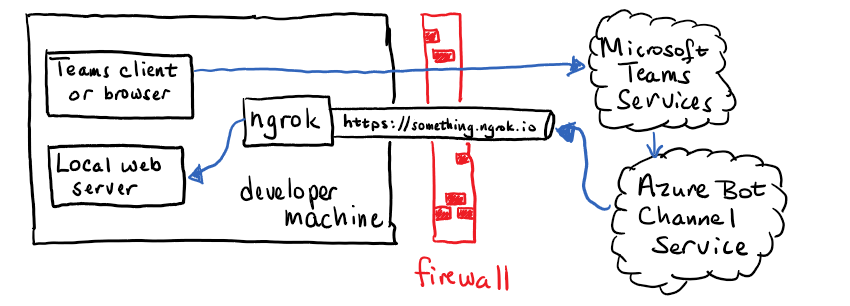
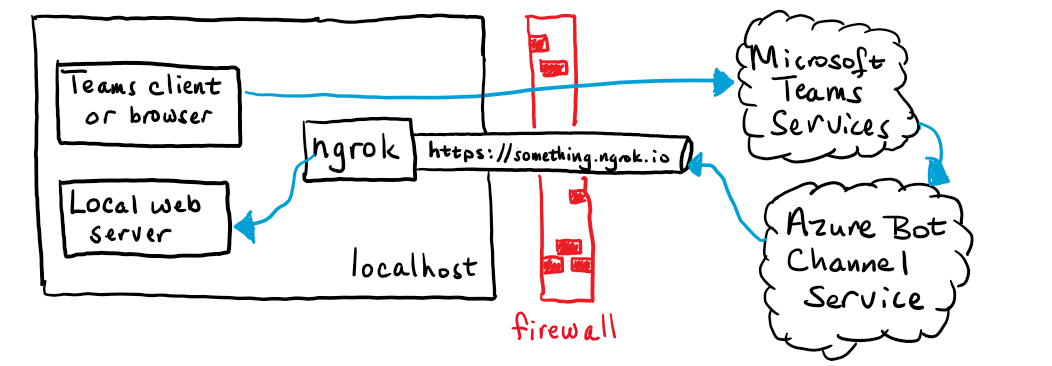
1st draft ngrok article

Changed region(s): [[0.0306, 0.0294, 0.9482, 1.0], [0.0306, 0.0294, 0.4588, 0.1471], [0.9176, 0.7059, 0.9482, 0.7647]]

diff --git a/Do you really need ngrok/article.md b/Do you really need ngrok/article.md
@@ -31,35 +31,103 @@ Here are the features of ngrok that make it the darling of so many developers:
 
 So while ngrok is clearly very useful, there are alternative approaches to handle each of these cases. The sections that follow will provide details.
 
-> An alternative tunnelling ngrok is not the solution.
-> Many people have suggested other tunneling applications such as [Azure Relay](https://blog.botframework.com/2019/04/16/debugging-your-locally-hosted-v4-bot-using-azure-relays/) or [localtunnel](https://localtunnel.github.io/www/). While they may be helpful in some ways, they all open a tunnel from the public Internet to your development computer, and thus the same security concerns usually arise. This article will only consider alternative approaches that do not expose any ports on the local computer to the public Internet.
+> Many people have suggested other tunneling applications such as [Azure Relay](https://blog.botframework.com/2019/04/16/debugging-your-locally-hosted-v4-bot-using-azure-relays/) or [localtunnel](https://localtunnel.github.io/www/). While they may be helpful in some ways, they all open a tunnel from the public Internet to your development computer, and thus the same security concerns usually arise. This article will only consider approaches that do not expose any ports on the local computer to the public Internet.
 
-## Building Teams tabs and task modules
+## Debugging Teams tabs and task modules
 
-Both tabs and task modules (modal dialogs) in Teams are web pages that appear in IFrames in the Teams user interface. Teams requires https on the URL of these web pages. It's notable that the Teams client accesses these web pages directly, so as long as your Teams client or web browser can access the page with https, it will show up in Microsoft Teams.
+Both tabs and task modules (modal dialogs) in Teams are web pages that appear in the Teams user interface. Teams requires https on the URL of these web pages. It's notable that the Teams client accesses these web pages directly, so as long as your Teams client or web browser can access the page with https, it will show up in Microsoft Teams.
 
 This picture shows how ngrok works in the case of a tab or task module. The Teams client (or web browser) opens the web page via the ngrok tunnel, which sends the connection right back to the local computer.
 
 ![Picture showing that Teams client access via ngrok is really just a loopback](./ngrok-tab.png)
 
-In this case no tunnel is needed as long as the Teams UI is running on the same computer where you're debugging. 
+If you think it looks pointless to have the call go out to the Internet and then right back in, you're right. However, remember that ngrok does more than tunneling! We are still benefitting from its other features.
 
-ngrok is really doing a 
+| Feature | Needed for local tab debugging |
+|---|---|
+| Name resolution | yes |
+| HTTPS encryption | yes |
+| Tunneling | no |
 
+So if not ngrok, how are we to handle name resolution and HTTPS encryption? Well actually there are many ways to do these things!
+
+### 1. Simple but temporary: Force the browser to trust your page
+
+If you can figure out how to turn on SSL in your web server, you can just access `localhost` via https. In the case of a NodeJS server, there is generally a **.env** file that contains a line like this:
+
+```javascript
+HTTPS=false
+```
+
+Guess what happens if you change it to true and then restart the web server? If you do, you'll be able to use https://localhost in your URL, which is perfectly acceptable to Microsoft Teams. However the certificate won't be trusted, and your browser will block the page. To deal with that, you need to first visit the page outside of Teams, get the security error, and instruct your browser to trust the certificate. Then Teams should allow you to access the page and your debugging can begin.
+
+The downside of this is that it's temporary; the auto-generated certificates tend to expire after a month or so and one day you may wonder why your tab has disappeared. Though statistically unproven, this seems most likely to happen in a big demo of your application. So it works, but it's not ideal.
+
+### 2. Better solution: Use your own TLS certificate
+
+This is the preferred method. Basically you run a command line program to generate a new certificate, where you choose the expiration date. Then you install it on your local web server and trust it in your web browser, and you're all set. It's easy to reuse the same certificates on all your projects, reducing the extra work. Indeed, if you develop for the web, you probably already have a way to turn on HTTPS; just use whatever works! 
+
+If you need to set up HTTPS on your development machine, [this article](https://bob1german.com/2020/10/17/setting-up-ssl-for-tabs-in-the-teams-toolkit-for-visual-studio-code/) may help. It was written for the Teams Toolkit, which uses Create React App for tabs, so if you use CRA you can just follow it.
+
+If you use some other web server you can still follow the article above for making and trusting a certificate, it's just that you'll need to look up the instructions on how to install the certificate on your web server. Search for "Install TLS certificate" for your web server or development environment.
+
+### 3. Don't host the site locally
+
+Another approach is to move away from the strategy of local debugging entirely. For example, you could publish your app to Microsoft Azure app service and use the [remote debugger]. Here are the instructions for [Visual Studio Code (NodeJS)](https://code.visualstudio.com/docs/azure/remote-debugging) and 
+[Visual Studio 2019 (.NET)](https://docs.microsoft.com/en-us/visualstudio/azure/vs-azure-tools-debug-cloud-services-virtual-machines).
+
+
+### What about Teams Single Sign-on (SSO)?
+
+It may seem that (no longer new) Teams SSO feature requires ngrok, but really it's no different than the non-SSO version. Here is an illustration.
+
+![Teams SSO and ngrok](./ngrok-tab-sso.png)
+
+As you can see, the ngrok tunnel is still leading right back to the local computer! The only difference is that now the local web server must make a request to Azure Active Directory. Since this is an outgoing request, no tunnel or other special handling is required.
 
 ## Building Teams bots and messaging extensions
 
-## Is ngrok secure?
+Teams bots and messaging extensions are implemented as web services, not web pages. They are REST services and could be built with any tool chain, but the messages need to go through an [Azure Bot Channel](https://docs.microsoft.com/en-us/azure/bot-service/bot-service-manage-channels). This means that the Azure Bot Service is going to need to initiate connections to your local web server where you're debugging. To do that, you really do need some kind of tunnel.
 
-Note that this is only my personal opinion; please consult a security specialist for an authoritative answer.
+![Bot channel service calls local web service](./ngrok-bot.png)
 
-I think ngrok can be secure if it's used as intended. It opens a single local port to the Internet; this port is the one I'm using for my debug session. If someone started accessing my public ngrok URL, the worst thing that they could do is confuse me as I'm trying to debug my work; there is nothing of value to be had.
+For this reason there currently is no local debugging option in Microsoft Teams that doesn't involve some sort of tunnel, ngrok or otherwise. However there are still options available!
 
-However I do understand why IT may object to ngrok and similar tools. An insider could leave it running on a computer under a desk somewhere as the basis of an attack on a corporate network. Once the tunnel is set up, they could log into this relay computer remotely, use ssh commands, or even write a small proxy server to relay the messages from the tunnel to other computers. Any of these methods could be used to gain broad access to the corporate network from from somewhere else. One could argue that a well designed corporate network might mitigate such attacks via IPSec and other policies, but most of the corporate networks I've seen aren't so sophisticated, so "no" is the easy answer.
+###1. Use the Bot Framework Emulator
 
+The [Bot Framework Emulator]() allows you to run bots locally without any cloud connection at all. The drawback is that it doesn't currently understand some Teams-specific features such as messaging extensions. However it does a great job running conversational bots; adaptive cards work as well (though Invoke actions do not). 
 
+If your bot isn't too Teams-specific, consider using the Bot Framework Emulator for most debugging and just do final integration in test in Teams, perhaps deployed in a staging envrionment (which must be able to accept incoming connections from the Azure Bot Service).
 
+###2. Don't debug locally
 
+Another approach is to move away from the strategy of local debugging entirely. For example, you could publish your app to Microsoft Azure app service and use the [remote debugger]. Here are the instructions for [Visual Studio Code (NodeJS)](https://code.visualstudio.com/docs/azure/remote-debugging) and 
+[Visual Studio 2019 (.NET)](https://docs.microsoft.com/en-us/visualstudio/azure/vs-azure-tools-debug-cloud-services-virtual-machines).
 
+You could also set up a development VM in Azure or your cloud service of choice and open an incoming port for the Azure Bot Service. Or just run ngrok - but away from the concerns of a corporate network.
 
+## How many services do you have?
 
+Teams applications generated by the [yo teams](https://docs.microsoft.com/en-us/microsoftteams/platform/tutorials/get-started-yeoman) generator have a single web server, so if your app has a combination of features - say, tabs and a bot - you can use one ngrok tunnel or one for all your application features.
+
+Teams applications generated by the [Microsoft Teams Toolkit](https://docs.microsoft.com/en-us/microsoftteams/platform/toolkit/visual-studio-code-overview) generate multiple web servers, so if your application has a tab and a bot you'll end up with two services (three if you include tab SSO!). The easiest way to locally debug in this case is to run 2 (or 3) ngrok tunnels! However only the bot needs to accept external connections; the tab's web server and SSO web service can be set up for https and accessed locally.
+
+## Mobile Device Testing
+
+It's prudent to test Teams applications on the mobile clients (iOS and Android) to make sure everything looks right. ngrok makes this a breeze - since your local service is exposed on the public Internet, you can test using any device with an Internet connection.
+
+If you're working on a bot or messaging extension, it has to go through the Azure Bot Service anyway so it doesn't matter where the Teams client is running.
+
+If you're working on tabs, however, you may want a local debug option for mobile devices. This means moving away from `localhost` to a local DNS name. This requires a bit of networking know-how; the high-level steps are:
+
+1. Ensure the test devices can reach your development computer directly via wifi (same subnetwork or corporate network, etc.)
+1. Determine the local IP address of your development computer and open incoming ports that you're using for debugging (such as 3000 or 8080)
+1. Come up with a hostname such as `server.local` and configure it with the local IP address on a local DNS server or on each client (remember **/etc/hosts**? It still works, and mobile devices have an app for that too!)
+1. When you generate your self-signed TLS certificate, use your local hostname
+1. Ensure each client under test trusts the self-signed TLS certificate
+
+Or - just use ngrok! Exposing your services on the Internet really does make mobile device testing easier, and is the only option if you want to test over a cellular connection.
+
+## Summary
+
+No you don't need ngrok - you just need to make your application accessible by Teams. Depending on your situation, the strategies in this article can allow you to debug your Teams applications without tunneling. But a tool like ngrok can sure make life easier!
